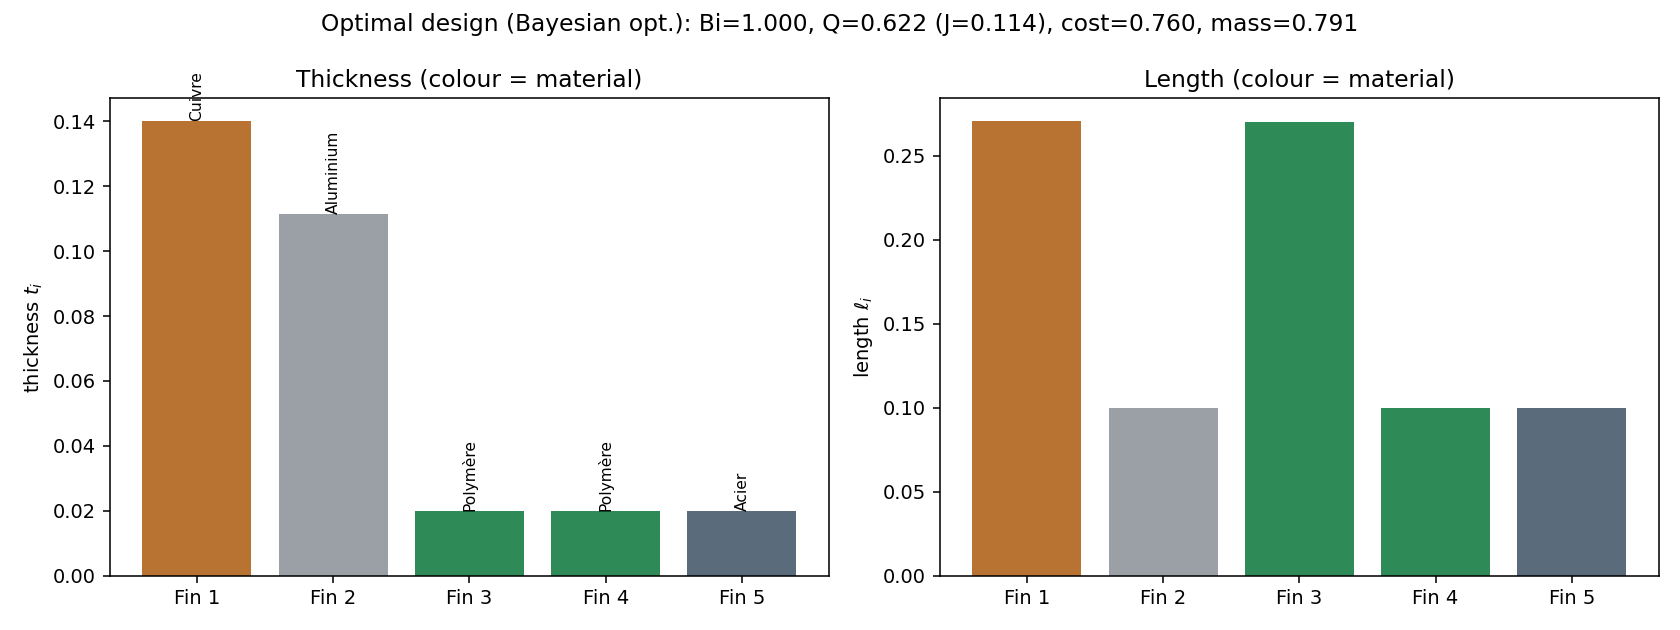
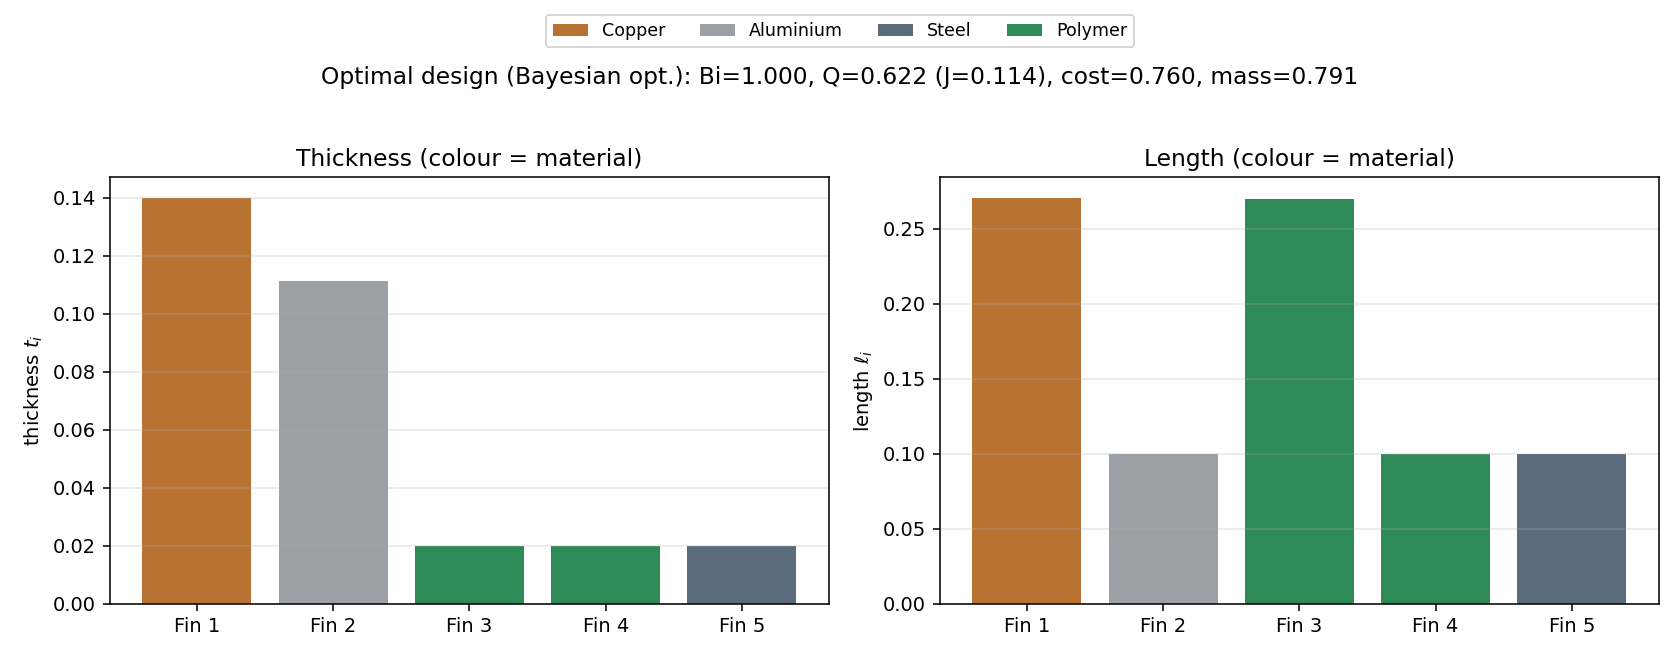
modif legend

diff --git a/scripts/build_part2_notebook.py b/scripts/build_part2_notebook.py
@@ -131,17 +131,21 @@ plt.tight_layout(); plt.savefig(R / "part2_best_diagnostics.png", dpi=140); plt.
 """)
 
 code(r"""
+from matplotlib.patches import Patch
 x = np.array(best["best_x"]); m, t, l, Bi = unpack(x)
-names = [MATERIALS[i]["name"] for i in m]; cols = [MAT_COLORS[i] for i in m]
+cols = [MAT_COLORS[i] for i in m]
 fins = [f"Fin {i+1}" for i in range(5)]
-fig, ax = plt.subplots(1, 2, figsize=(12, 4.5))
+fig, ax = plt.subplots(1, 2, figsize=(12, 4.7))
 ax[0].bar(fins, t, color=cols); ax[0].set_ylabel("thickness $t_i$"); ax[0].set_title("Thickness (colour = material)")
-for i, (xx, nm) in enumerate(zip(t, names)):
-    ax[0].text(i, xx, nm, ha="center", va="bottom", fontsize=8, rotation=90)
 ax[1].bar(fins, l, color=cols); ax[1].set_ylabel("length $\\ell_i$"); ax[1].set_title("Length (colour = material)")
+for a in ax: a.grid(alpha=0.3, axis="y")
+# explicit colour -> material legend (all materials shown)
+handles = [Patch(facecolor=MAT_COLORS[i], label=MATERIALS[i]["name"]) for i in range(len(MATERIALS))]
+fig.legend(handles=handles, loc="upper center", ncol=len(MATERIALS),
+           frameon=True, bbox_to_anchor=(0.5, 0.99), fontsize=9)
 plt.suptitle(f"Optimal design ({best_name}): Bi={Bi:.3f}, Q={best['best_Q']:.3f} "
-             f"(J={best['best_J']:.3f}), cost={best['best_cost']:.3f}, mass={best['best_mass']:.3f}")
-plt.tight_layout(); plt.savefig(R / "part2_optimal_design.png", dpi=140); plt.show()
+             f"(J={best['best_J']:.3f}), cost={best['best_cost']:.3f}, mass={best['best_mass']:.3f}", y=0.90)
+fig.tight_layout(rect=[0, 0, 1, 0.88]); plt.savefig(R / "part2_optimal_design.png", dpi=140); plt.show()
 print(describe(x))
 """)
 

diff --git a/report/main.tex b/report/main.tex
@@ -373,9 +373,9 @@ while costing only a few milliseconds per evaluation on the coarse mesh.
 \subsection{Comparison of the Optimization Methods}
 To keep the methodology consistent across the report, we apply to the enriched problem the
 \emph{same three optimizers as in Part~I} (Nelder--Mead (NM), Differential Evolution (DE) and the
-Adam$\rightarrow$L-BFGS hybrid. The five discrete material variables are handled by \emph{continuous
-relaxation with rounding} (the material index is rounded inside the objective), exactly as DE already
-treated them in Part~I) together with \textbf{Bayesian optimization}, so all four methods operate on the
+Adam$\rightarrow$L-BFGS hybrid), together with \textbf{Bayesian optimization}. The five discrete material
+variables are handled by \emph{continuous relaxation with rounding} (the material index is rounded inside
+the objective), exactly as DE already treated them in Part~I, so all four methods operate on the
 same $16$-dimensional continuous box.
 Table~\ref{tab:enr-methods} and Fig.~\ref{fig:enr-conv} report the comparison on the coarse mesh (each method run to convergence).
 

diff --git a/heatcond/materials.py b/heatcond/materials.py
@@ -26,7 +26,7 @@ import numpy as np
 # --------------------------------------------------------------------------
 MATERIALS = [
     {"name": "Copper",    "k": 1.00, "price": 9.0, "density": 9.0},
-    {"name": "Aluminum",  "k": 0.60, "price": 3.0, "density": 2.7},
+    {"name": "Aluminium", "k": 0.60, "price": 3.0, "density": 2.7},
     {"name": "Steel",     "k": 0.25, "price": 1.5, "density": 7.8},
     {"name": "Polymer",   "k": 0.05, "price": 0.3, "density": 1.2},
 ]

diff --git a/README.md b/README.md
@@ -22,11 +22,11 @@ $J^\star\approx0.730$. On this landscape Nelder-Mead is the most efficient metho
 (conductivity, **price**, density) and a **continuous geometry** (thickness, length). We maximize a
 multi-criteria objective
 $F = Q - \lambda_{\text{cost}}\,\text{Cost} - \lambda_{\text{mass}}\,\text{Mass}$
-(16 variables, mixed integer and continuous). We apply the **same three methods as in Part I**
-(Nelder-Mead, Differential Evolution, Adam then L-BFGS). They land within about 1% of one another,
-the Adam then L-BFGS hybrid being marginally best while Differential Evolution confirms the optimum.
-We then characterize the objective evolution (per evaluation and per CPU second) and the
-performance/cost Pareto front.
+(16 variables, mixed integer and continuous). We apply the **same methods as in Part I**
+(Nelder-Mead, Differential Evolution, Adam then L-BFGS) plus **Bayesian optimization**. They land
+within a few percent of one another; **Bayesian optimization gives the best objective with by far the
+fewest evaluations**, so it is retained as the default method. We then characterize the objective
+evolution (per evaluation and per CPU second) and the performance/cost Pareto front.
 
 ## Repository layout
 
@@ -68,11 +68,10 @@ performance/cost Pareto front.
 │   ├── part1_simple_objective.ipynb
 │   └── part2_material_geometry.ipynb
 ├── results/                 # generated figures and data
-│   ├── part1/               # Part I figures (etude*, geometry_mesh)
+│   ├── part1/               # Part I figures (part1_*, geometry_mesh) and summary.json
 │   └── part2/               # Part II figures (part2_*) and methods_param.json
 ├── config/opt_config.json   # bounds and optimizer settings (Part I)
-├── report/                  # final report (LaTeX and PDF)
-└── archive/                 # intermediate reports (history)
+└── report/                  # final report (LaTeX and PDF)
 ```
 
 **Deliverable: [`report/main.pdf`](report/main.pdf)** (source `report/main.tex`, compiles on Overleaf
